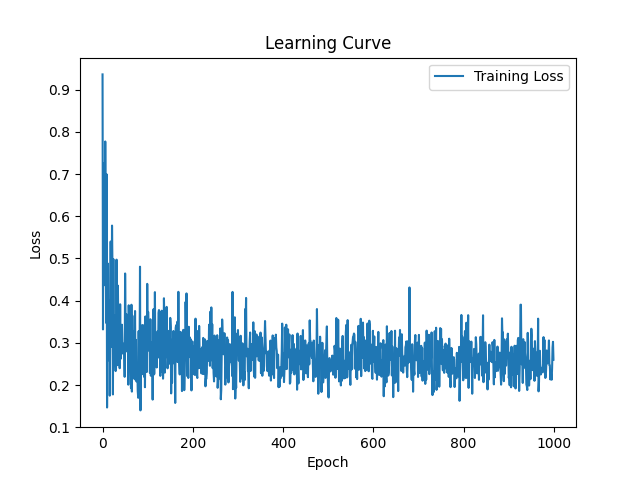
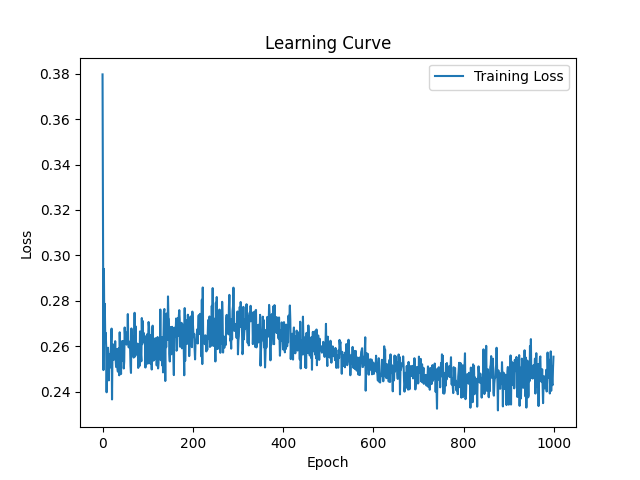
random init weight near zero

diff --git a/chiara_prova.py b/chiara_prova.py
@@ -5,7 +5,7 @@ import matplotlib.pyplot as plt
 import numpy as np
 
 class NeuralNetwork:
-    def __init__(self, input_size, hidden_size, learning_rate=0.1, epochs=1000, batch_size=16, momentum=0.5, lambda_reg=0.01):
+    def __init__(self, input_size, hidden_size, learning_rate=0.1, epochs=1000, batch_size=32, momentum=0.9, lambda_reg=0.01):
         self.input_size = input_size
         self.hidden_size = hidden_size
         self.learning_rate = learning_rate
@@ -18,9 +18,9 @@ class NeuralNetwork:
 
     def initialize_parameters(self):
         np.random.seed(42)
-        weights_input_hidden = np.random.randn(self.input_size, self.hidden_size)
+        weights_input_hidden = np.random.uniform(low=0.1, high=0.9, size=(self.input_size,self.hidden_size))
         biases_hidden = np.zeros((1, self.hidden_size))
-        weights_hidden_output = np.random.randn(self.hidden_size, 1)
+        weights_hidden_output = np.random.uniform(low=0.1, high=0.9, size=(self.hidden_size, 1))
         biases_output = np.zeros((1, 1))
         return weights_input_hidden, biases_hidden, weights_hidden_output, biases_output
 
@@ -103,26 +103,26 @@ class NeuralNetwork:
         plt.ylabel('Loss')
         plt.title('Learning Curve')
         plt.legend()
-        plt.savefig('learning_curve.png')  # Save the plot to a file
+        plt.savefig('learning_curve.png')  
         plt.close()
 
-    def predict(self, X):
+"""    def predict(self, X):
         _, output = self.forward_propagation(X)
-        return output
+        return output"""
 
 percorso_file_train_1 = './monk+s+problems/monks-1.train'
 percorso_file_train_2 = './monk+s+problems/monks-2.train'
 percorso_file_train_3 = './monk+s+problems/monks-3.train'
 
-X_train, y_train = Preprocessing.preprocessing(percorso_file_train_2)
+X_train, y_train = Preprocessing.preprocessing(percorso_file_train_1)
 
 print("Monk-shape: ", X_train.shape)
 print("Targets-shape: ", y_train.shape)
 
 input_size = X_train.shape[1]
-hidden_size = 3
+hidden_size = 4
 
-nn = NeuralNetwork(input_size, hidden_size, learning_rate=0.01, epochs=1000, batch_size=32, momentum=0.7, lambda_reg=0.01)
+nn = NeuralNetwork(input_size, hidden_size, learning_rate=0.1, epochs=1000, batch_size=32, momentum=0.5, lambda_reg=0.01)
 nn.train(X_train, y_train)
 
 
